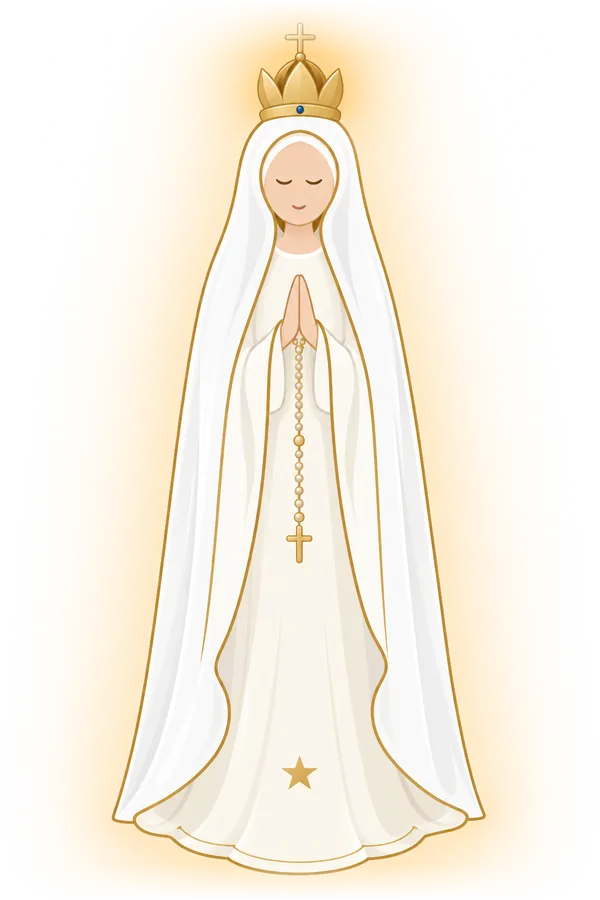
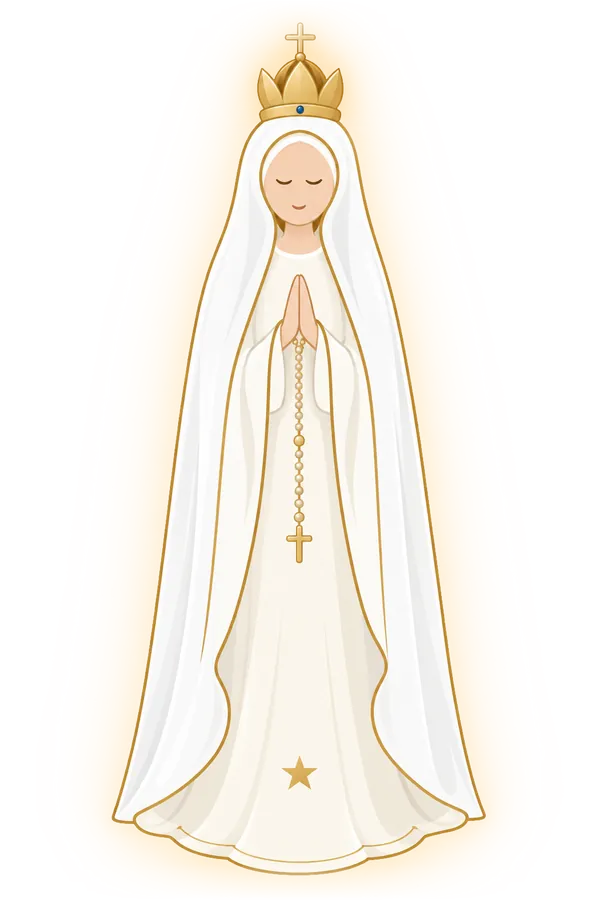
Aura de Nossa Senhora mais limpa
Substitui o disco de luz por mandorla oval, nimbo com anel fino atrás
da cabeça e raios que se dissolvem (mascarados na região da coroa).
O brilho embutido na imagem fica só como contorno próximo à figura.

Changed region(s): [[0.12, 0.0, 0.87, 0.9956]]

diff --git a/index.html b/index.html
@@ -93,14 +93,23 @@
       <div class="dust" data-dust="18" aria-hidden="true"></div>
       <svg class="hero-svg" viewBox="0 0 400 600" width="400" height="600" role="img" aria-label="Nossa Senhora de Fátima, com coroa dourada, manto branco e terço nas mãos, sobre uma nuvem">
         <defs>
-          <radialGradient id="glow" cx="50%" cy="42%" r="50%"><stop offset="0" stop-color="#fff3cf" stop-opacity=".95"/><stop offset=".35" stop-color="#e8c778" stop-opacity=".35"/><stop offset="1" stop-color="#e8c778" stop-opacity="0"/></radialGradient>
+          <radialGradient id="aura" cx="50%" cy="50%" r="50%"><stop offset="0" stop-color="#fff6dc" stop-opacity=".42"/><stop offset=".38" stop-color="#f1d796" stop-opacity=".2"/><stop offset=".72" stop-color="#e8c778" stop-opacity=".06"/><stop offset="1" stop-color="#e8c778" stop-opacity="0"/></radialGradient>
+          <radialGradient id="nimbus" cx="50%" cy="50%" r="50%"><stop offset="0" stop-color="#fffaf0" stop-opacity=".85"/><stop offset=".45" stop-color="#f6dc9a" stop-opacity=".38"/><stop offset="1" stop-color="#e8c778" stop-opacity="0"/></radialGradient>
+          <linearGradient id="ray" gradientUnits="userSpaceOnUse" x1="0" y1="-282" x2="0" y2="-196"><stop offset="0" stop-color="#f1d796" stop-opacity="0"/><stop offset=".55" stop-color="#f1d796" stop-opacity=".6"/><stop offset="1" stop-color="#f1d796" stop-opacity="0"/></linearGradient>
+          <radialGradient id="ray-hole" cx="200" cy="112" r="118" gradientUnits="userSpaceOnUse"><stop offset=".72" stop-color="#000"/><stop offset="1" stop-color="#fff"/></radialGradient>
+          <mask id="ray-mask" maskUnits="userSpaceOnUse" x="-100" y="-100" width="600" height="800"><rect x="-100" y="-100" width="600" height="800" fill="url(#ray-hole)"/></mask>
           <linearGradient id="mantle" x1="0" y1="0" x2="0" y2="1"><stop offset="0" stop-color="#ffffff"/><stop offset="1" stop-color="#e7ecf4"/></linearGradient>
           <linearGradient id="gold" x1="0" y1="0" x2="1" y2="1"><stop offset="0" stop-color="#f1d796"/><stop offset=".5" stop-color="#c9a24f"/><stop offset="1" stop-color="#a8812f"/></linearGradient>
-          <clipPath id="arch"><path d="M60 560 V200 A140 140 0 0 1 340 200 V560 Z"/></clipPath>
         </defs>
-        <g class="halo"><circle cx="200" cy="250" r="230" fill="url(#glow)"/></g>
-        <g class="rays" stroke="#f1d796" stroke-linecap="round" opacity=".45">
-          <line x1="200" y1="40" x2="200" y2="60" stroke-width="2.2" transform="rotate(0 200 250)"/><line x1="200" y1="40" x2="200" y2="90" stroke-width="1.2" transform="rotate(10 200 250)"/><line x1="200" y1="40" x2="200" y2="60" stroke-width="2.2" transform="rotate(20 200 250)"/><line x1="200" y1="40" x2="200" y2="90" stroke-width="1.2" transform="rotate(30 200 250)"/><line x1="200" y1="40" x2="200" y2="60" stroke-width="2.2" transform="rotate(40 200 250)"/><line x1="200" y1="40" x2="200" y2="90" stroke-width="1.2" transform="rotate(50 200 250)"/><line x1="200" y1="40" x2="200" y2="60" stroke-width="2.2" transform="rotate(60 200 250)"/><line x1="200" y1="40" x2="200" y2="90" stroke-width="1.2" transform="rotate(70 200 250)"/><line x1="200" y1="40" x2="200" y2="60" stroke-width="2.2" transform="rotate(80 200 250)"/><line x1="200" y1="40" x2="200" y2="90" stroke-width="1.2" transform="rotate(90 200 250)"/><line x1="200" y1="40" x2="200" y2="60" stroke-width="2.2" transform="rotate(100 200 250)"/><line x1="200" y1="40" x2="200" y2="90" stroke-width="1.2" transform="rotate(110 200 250)"/><line x1="200" y1="40" x2="200" y2="60" stroke-width="2.2" transform="rotate(120 200 250)"/><line x1="200" y1="40" x2="200" y2="90" stroke-width="1.2" transform="rotate(130 200 250)"/><line x1="200" y1="40" x2="200" y2="60" stroke-width="2.2" transform="rotate(140 200 250)"/><line x1="200" y1="40" x2="200" y2="90" stroke-width="1.2" transform="rotate(150 200 250)"/><line x1="200" y1="40" x2="200" y2="60" stroke-width="2.2" transform="rotate(160 200 250)"/><line x1="200" y1="40" x2="200" y2="90" stroke-width="1.2" transform="rotate(170 200 250)"/><line x1="200" y1="40" x2="200" y2="60" stroke-width="2.2" transform="rotate(180 200 250)"/><line x1="200" y1="40" x2="200" y2="90" stroke-width="1.2" transform="rotate(190 200 250)"/><line x1="200" y1="40" x2="200" y2="60" stroke-width="2.2" transform="rotate(200 200 250)"/><line x1="200" y1="40" x2="200" y2="90" stroke-width="1.2" transform="rotate(210 200 250)"/><line x1="200" y1="40" x2="200" y2="60" stroke-width="2.2" transform="rotate(220 200 250)"/><line x1="200" y1="40" x2="200" y2="90" stroke-width="1.2" transform="rotate(230 200 250)"/><line x1="200" y1="40" x2="200" y2="60" stroke-width="2.2" transform="rotate(240 200 250)"/><line x1="200" y1="40" x2="200" y2="90" stroke-width="1.2" transform="rotate(250 200 250)"/><line x1="200" y1="40" x2="200" y2="60" stroke-width="2.2" transform="rotate(260 200 250)"/><line x1="200" y1="40" x2="200" y2="90" stroke-width="1.2" transform="rotate(270 200 250)"/><line x1="200" y1="40" x2="200" y2="60" stroke-width="2.2" transform="rotate(280 200 250)"/><line x1="200" y1="40" x2="200" y2="90" stroke-width="1.2" transform="rotate(290 200 250)"/><line x1="200" y1="40" x2="200" y2="60" stroke-width="2.2" transform="rotate(300 200 250)"/><line x1="200" y1="40" x2="200" y2="90" stroke-width="1.2" transform="rotate(310 200 250)"/><line x1="200" y1="40" x2="200" y2="60" stroke-width="2.2" transform="rotate(320 200 250)"/><line x1="200" y1="40" x2="200" y2="90" stroke-width="1.2" transform="rotate(330 200 250)"/><line x1="200" y1="40" x2="200" y2="60" stroke-width="2.2" transform="rotate(340 200 250)"/><line x1="200" y1="40" x2="200" y2="90" stroke-width="1.2" transform="rotate(350 200 250)"/>
+        <g class="halo">
+          <ellipse cx="200" cy="318" rx="186" ry="296" fill="url(#aura)"/>
+          <circle cx="200" cy="112" r="96" fill="url(#nimbus)"/>
+          <circle class="nimbus-ring" cx="200" cy="112" r="80" fill="none" stroke="#e3c985" stroke-opacity=".55" stroke-width="1"/>
+        </g>
+        <g mask="url(#ray-mask)">
+        <g class="rays" stroke="url(#ray)" stroke-linecap="round" opacity=".8">
+          <g transform="translate(200 300)"><line x1="0" y1="-282" x2="0" y2="-196" stroke-width="1.6" transform="rotate(0)"/><line x1="0" y1="-262" x2="0" y2="-196" stroke-width="0.9" transform="rotate(7.5)"/><line x1="0" y1="-282" x2="0" y2="-196" stroke-width="1.6" transform="rotate(15)"/><line x1="0" y1="-262" x2="0" y2="-196" stroke-width="0.9" transform="rotate(22.5)"/><line x1="0" y1="-282" x2="0" y2="-196" stroke-width="1.6" transform="rotate(30)"/><line x1="0" y1="-262" x2="0" y2="-196" stroke-width="0.9" transform="rotate(37.5)"/><line x1="0" y1="-282" x2="0" y2="-196" stroke-width="1.6" transform="rotate(45)"/><line x1="0" y1="-262" x2="0" y2="-196" stroke-width="0.9" transform="rotate(52.5)"/><line x1="0" y1="-282" x2="0" y2="-196" stroke-width="1.6" transform="rotate(60)"/><line x1="0" y1="-262" x2="0" y2="-196" stroke-width="0.9" transform="rotate(67.5)"/><line x1="0" y1="-282" x2="0" y2="-196" stroke-width="1.6" transform="rotate(75)"/><line x1="0" y1="-262" x2="0" y2="-196" stroke-width="0.9" transform="rotate(82.5)"/><line x1="0" y1="-282" x2="0" y2="-196" stroke-width="1.6" transform="rotate(90)"/><line x1="0" y1="-262" x2="0" y2="-196" stroke-width="0.9" transform="rotate(97.5)"/><line x1="0" y1="-282" x2="0" y2="-196" stroke-width="1.6" transform="rotate(105)"/><line x1="0" y1="-262" x2="0" y2="-196" stroke-width="0.9" transform="rotate(112.5)"/><line x1="0" y1="-282" x2="0" y2="-196" stroke-width="1.6" transform="rotate(120)"/><line x1="0" y1="-262" x2="0" y2="-196" stroke-width="0.9" transform="rotate(127.5)"/><line x1="0" y1="-282" x2="0" y2="-196" stroke-width="1.6" transform="rotate(135)"/><line x1="0" y1="-262" x2="0" y2="-196" stroke-width="0.9" transform="rotate(142.5)"/><line x1="0" y1="-282" x2="0" y2="-196" stroke-width="1.6" transform="rotate(150)"/><line x1="0" y1="-262" x2="0" y2="-196" stroke-width="0.9" transform="rotate(157.5)"/><line x1="0" y1="-282" x2="0" y2="-196" stroke-width="1.6" transform="rotate(165)"/><line x1="0" y1="-262" x2="0" y2="-196" stroke-width="0.9" transform="rotate(172.5)"/><line x1="0" y1="-282" x2="0" y2="-196" stroke-width="1.6" transform="rotate(180)"/><line x1="0" y1="-262" x2="0" y2="-196" stroke-width="0.9" transform="rotate(187.5)"/><line x1="0" y1="-282" x2="0" y2="-196" stroke-width="1.6" transform="rotate(195)"/><line x1="0" y1="-262" x2="0" y2="-196" stroke-width="0.9" transform="rotate(202.5)"/><line x1="0" y1="-282" x2="0" y2="-196" stroke-width="1.6" transform="rotate(210)"/><line x1="0" y1="-262" x2="0" y2="-196" stroke-width="0.9" transform="rotate(217.5)"/><line x1="0" y1="-282" x2="0" y2="-196" stroke-width="1.6" transform="rotate(225)"/><line x1="0" y1="-262" x2="0" y2="-196" stroke-width="0.9" transform="rotate(232.5)"/><line x1="0" y1="-282" x2="0" y2="-196" stroke-width="1.6" transform="rotate(240)"/><line x1="0" y1="-262" x2="0" y2="-196" stroke-width="0.9" transform="rotate(247.5)"/><line x1="0" y1="-282" x2="0" y2="-196" stroke-width="1.6" transform="rotate(255)"/><line x1="0" y1="-262" x2="0" y2="-196" stroke-width="0.9" transform="rotate(262.5)"/><line x1="0" y1="-282" x2="0" y2="-196" stroke-width="1.6" transform="rotate(270)"/><line x1="0" y1="-262" x2="0" y2="-196" stroke-width="0.9" transform="rotate(277.5)"/><line x1="0" y1="-282" x2="0" y2="-196" stroke-width="1.6" transform="rotate(285)"/><line x1="0" y1="-262" x2="0" y2="-196" stroke-width="0.9" transform="rotate(292.5)"/><line x1="0" y1="-282" x2="0" y2="-196" stroke-width="1.6" transform="rotate(300)"/><line x1="0" y1="-262" x2="0" y2="-196" stroke-width="0.9" transform="rotate(307.5)"/><line x1="0" y1="-282" x2="0" y2="-196" stroke-width="1.6" transform="rotate(315)"/><line x1="0" y1="-262" x2="0" y2="-196" stroke-width="0.9" transform="rotate(322.5)"/><line x1="0" y1="-282" x2="0" y2="-196" stroke-width="1.6" transform="rotate(330)"/><line x1="0" y1="-262" x2="0" y2="-196" stroke-width="0.9" transform="rotate(337.5)"/><line x1="0" y1="-282" x2="0" y2="-196" stroke-width="1.6" transform="rotate(345)"/><line x1="0" y1="-262" x2="0" y2="-196" stroke-width="0.9" transform="rotate(352.5)"/></g>
+        </g>
         </g>
         <!-- nossa-senhora:inicio (substituído por /public/img/nossa-senhora.webp quando o arquivo existir) -->
         <g class="figure">

diff --git a/src/styles/animations.css b/src/styles/animations.css
@@ -20,13 +20,13 @@
 
 /* Halo, raios e figura */
 .rays {
-  transform-origin: 200px 250px;
+  transform-origin: 200px 300px;
   transform-box: view-box;
   animation: spin 120s linear infinite;
 }
 
 .halo {
-  transform-origin: 200px 250px;
+  transform-origin: 200px 300px;
   transform-box: view-box;
   animation: breathe 6s ease-in-out infinite;
 }
